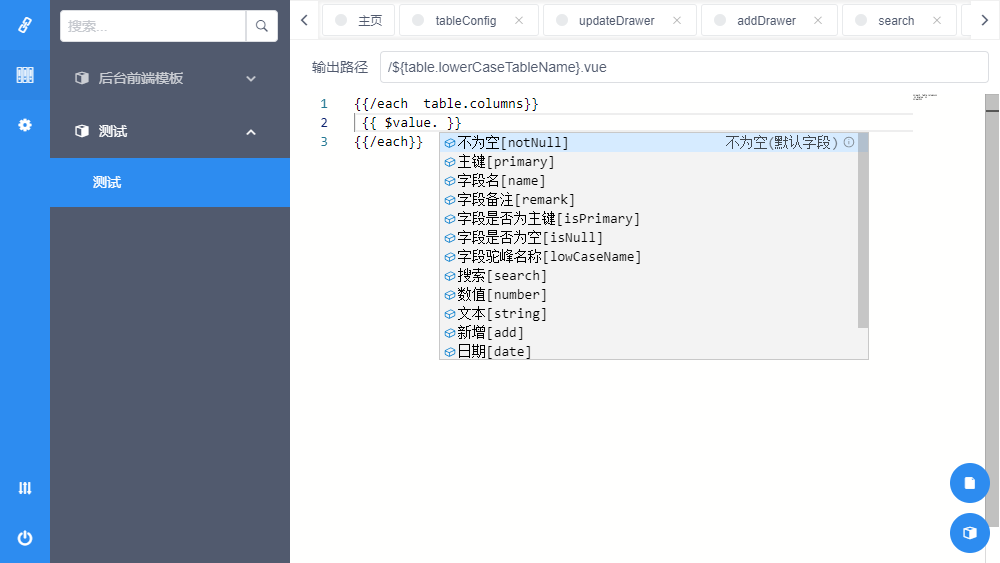
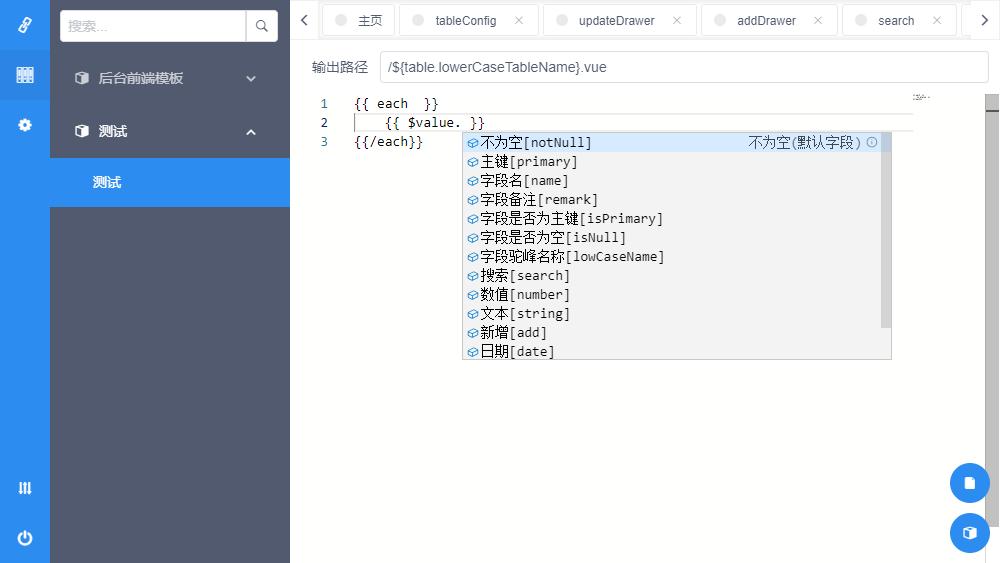
更新说明

Changed region(s): [[0.372, 0.1812, 0.651, 0.6341], [0.744, 0.2114, 0.899, 0.6039]]

diff --git a/README.md b/README.md
@@ -16,11 +16,6 @@
 
 ![标签](https://raw.githubusercontent.com/2507483326/emerge/master/static/img/tag.jpg)
 
-## 模板
-模板采用art-template语法生成, 通过与数据库相关 table 、table.columns 等字段，实现针对于数据库表的代码生成
-
-![模板](https://raw.githubusercontent.com/2507483326/emerge/master/static/img/template.jpg)
-
 ## 代码生成
 通过选择需要生成的模板、和数据库表，生成模板到指定位置
 
@@ -30,7 +25,44 @@
 
 ![完成](https://raw.githubusercontent.com/2507483326/emerge/master/static/img/finnish.jpg)
 
-## 项目使用说明
+## 模板编写指南
+
+![模板](https://raw.githubusercontent.com/2507483326/emerge/master/static/img/template.jpg)
+
+模板采用art-template语法生成, 通过与数据库相关 table 、table.columns 等字段，实现针对于数据库表的代码生成，具体模板插槽规则可以参考[artTempalte.js](http://aui.github.io/art-template/zh-cn/docs/syntax.html#输出)
+
+![输出路径](https://raw.githubusercontent.com/2507483326/emerge/master/static/img/value.jpg)
+
+```
+1. 输出路径中可以使用${table}变量这种方式来动态生成输出路径
+2. 模板中可以使用 {{ table }}方式使用表格变量
+```
+
+![变量提示](https://raw.githubusercontent.com/2507483326/emerge/master/static/img/table.jpg)
+
+```
+1. 可以通过{{table.}}方式，出现代码提示，选择需要的变量
+```
+
+![列](https://raw.githubusercontent.com/2507483326/emerge/master/static/img/columns.jpg)
+
+```
+1. 可以通过
+{{ each  }}
+    {{ $value. }}
+{{/each}}
+方式来对表格中的每个字段进行循环操作
+```
+
+![默认模板](https://raw.githubusercontent.com/2507483326/emerge/master/static/img/default-template.jpg)
+
+```
+
+```
+
+
+
+## 项目主要功能说明
 
 emerge代码生成器主要是以MYSQL数据库表结合以artTemplate逆向自动生成前后端代码，减少前后端代码重复代码编写
 
